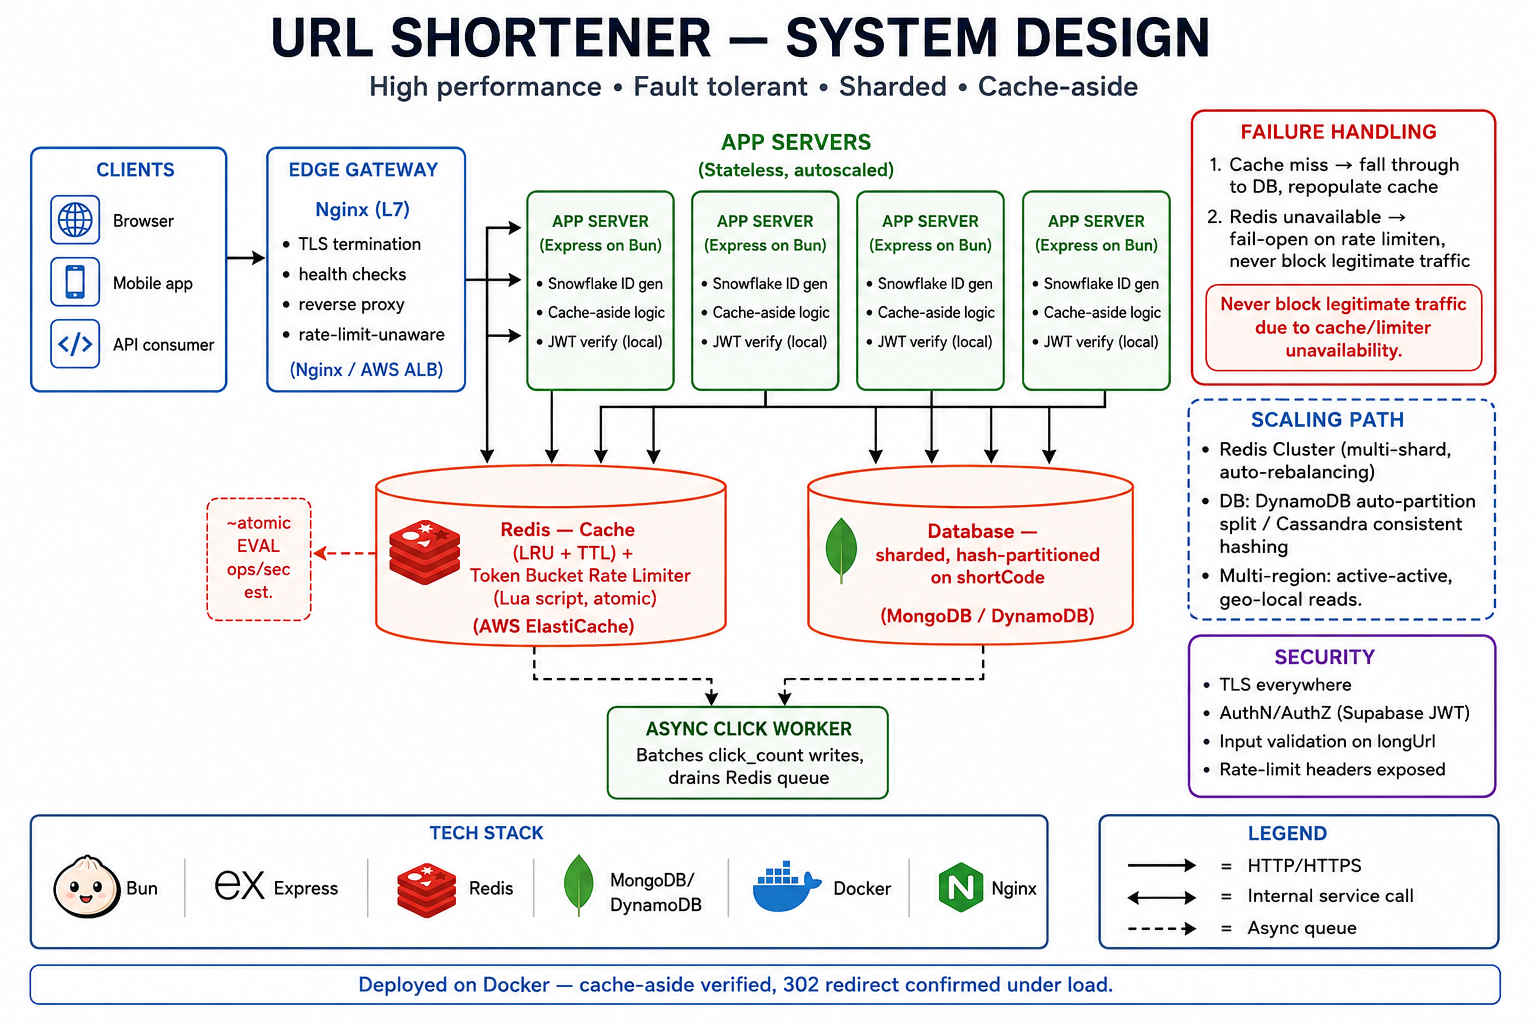
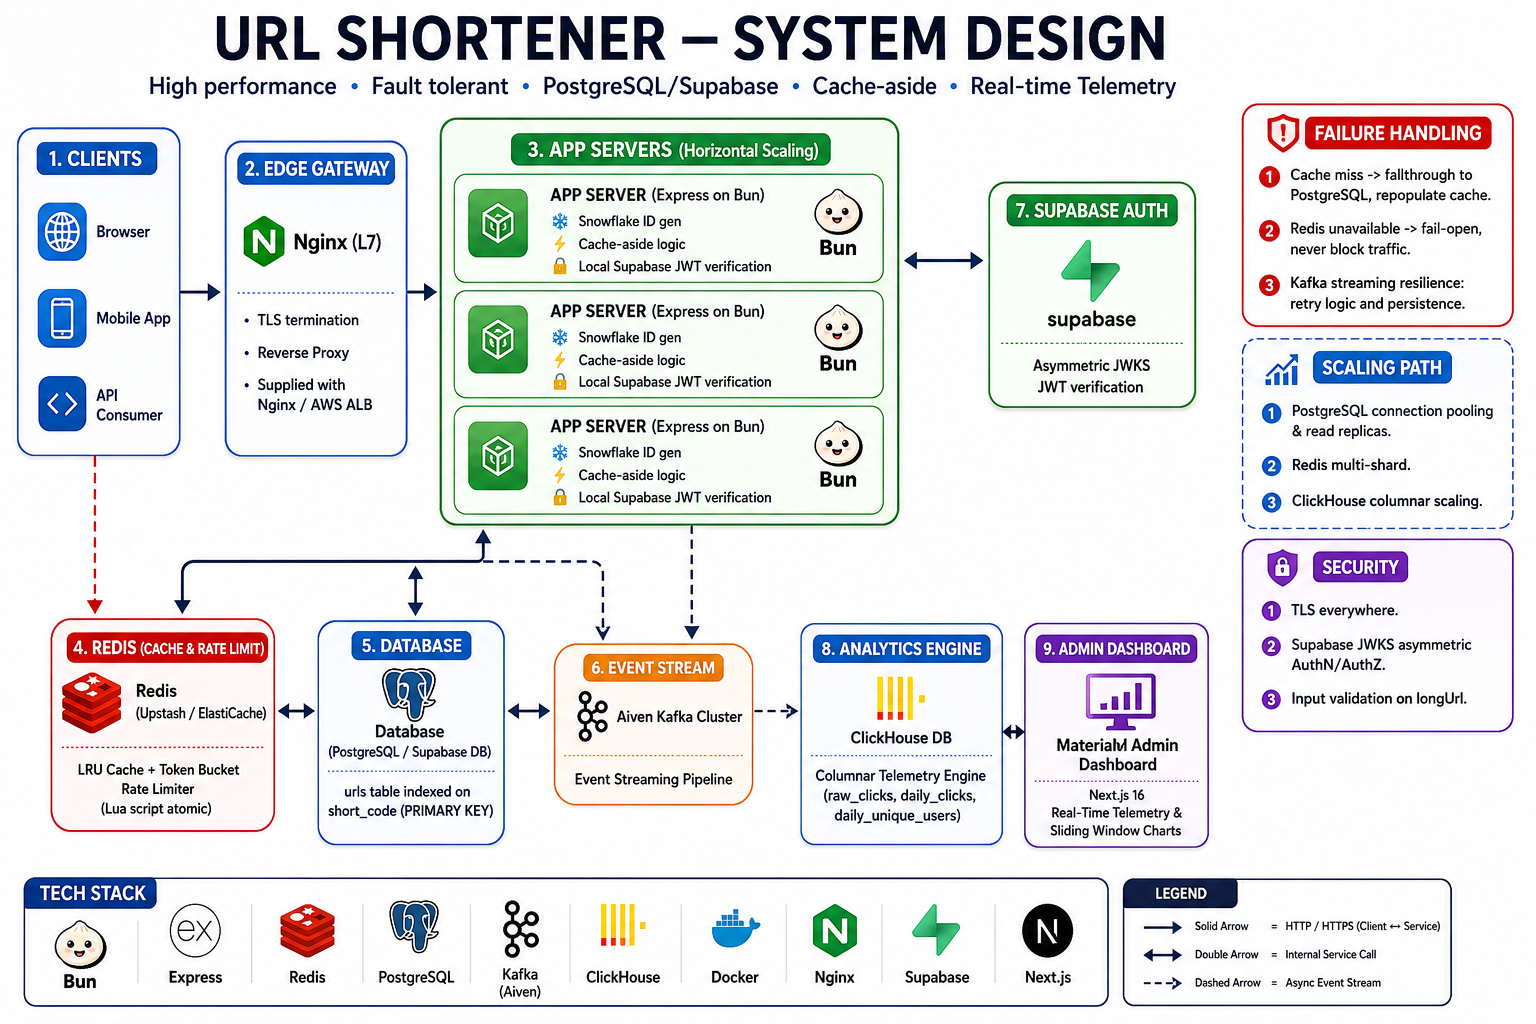
change readme

Changed region(s): [[0.0, 0.0, 1.0, 1.0]]

diff --git a/Readme.md b/Readme.md
@@ -22,7 +22,7 @@ flowchart TD
     Gateway --> App[App servers<br/>Express on Bun — stateless, autoscaled]
 
     App --> Redis[(Upstash / Redis<br/>Cache LRU+TTL + rate limit buckets)]
-    App --> DB[(Database<br/>MongoDB / DynamoDB — sharded on hashed shortCode)]
+    App --> DB[(Database<br/>PostgreSQL / Supabase DB — indexed on short_code)]
     App -->|JWKS verify| Supabase[Supabase Auth<br/>asymmetric JWT signing]
 
     App -->|Event stream| Kafka[Kafka Cluster<br/>Aiven streaming queue]
@@ -69,19 +69,13 @@ See `apps/backend/src/lib/snowflake.ts` / `base62.ts`.
 
 ### Real-Time Telemetry & Analytics — Kafka + ClickHouse
 
-High-volume redirect clicks generate massive event volumes. Instead of hammering transactional databases (MongoDB/DynamoDB) with OLAP aggregation queries:
+High-volume redirect clicks generate massive event volumes. Instead of hammering transactional databases (PostgreSQL/Supabase) with OLAP aggregation queries:
 - **Kafka**: Decouples click event ingestion from redirect response loops.
 - **ClickHouse**: Columnar database storing raw event logs (`raw_clicks`) and materialized daily rollups (`daily_clicks`, `daily_unique_users`) for sub-second analytical dashboard queries.
 
-### Database — sharded on hashed `shortCode`
+### Database — PostgreSQL / Supabase Database
 
-Access pattern is a pure key-value point lookup, read-heavy (100-1000:1
-read:write). Sharding on a **hash** of `shortCode` (not a range key like
-`createdAt`) spreads writes evenly and avoids hot-shard problems. Currently
-implemented on MongoDB (`hashed` shard key) for local dev speed; DynamoDB is
-the recommended production target since it auto-splits hot partitions with
-no manual shard management. Only `db/client.ts` and `db/urlRepository.ts`
-would change to migrate — nothing else in the app touches the DB directly.
+Access pattern is a pure key-value point lookup, read-heavy (100-1000:1 read:write). Implemented on **PostgreSQL / Supabase Database** (`urls` table indexed on `short_code` primary key and `user_id`). Only `db/client.ts` and `db/urlRepository.ts` interact with the relational store — nothing else in the app touches the DB directly.
 
 ### Redis — two jobs, one instance
 
@@ -118,7 +112,7 @@ The administration and analytics platform adheres to the **MaterialM Design Syst
 - Runtime: Bun / Node.js · Framework: Express
 - Cache / rate limiter: Redis (Upstash / ioredis)
 - Telemetry & Event Streaming: Kafka (Aiven) + ClickHouse
-- Database: MongoDB (dev) → DynamoDB (production target)
+- Database: PostgreSQL / Supabase Database
 - Auth verification: `jose` (JWKS, asymmetric)
 - Containerization: Docker + docker-compose
 - Reverse proxy / LB: Nginx
